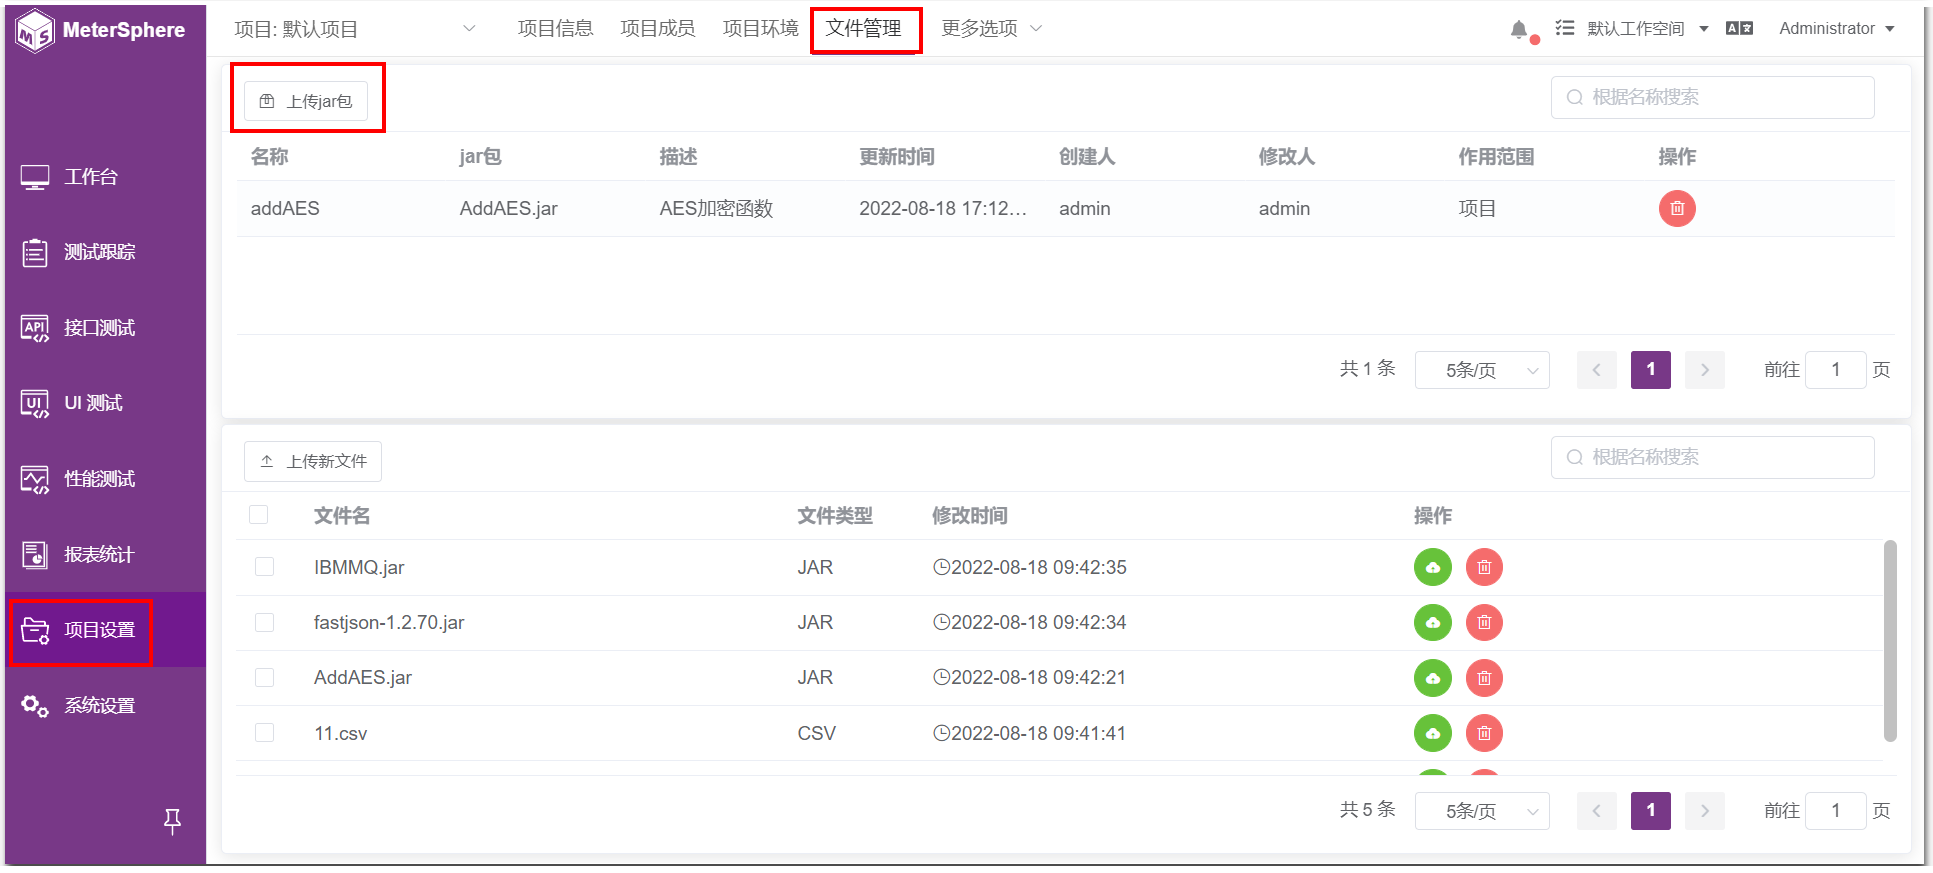
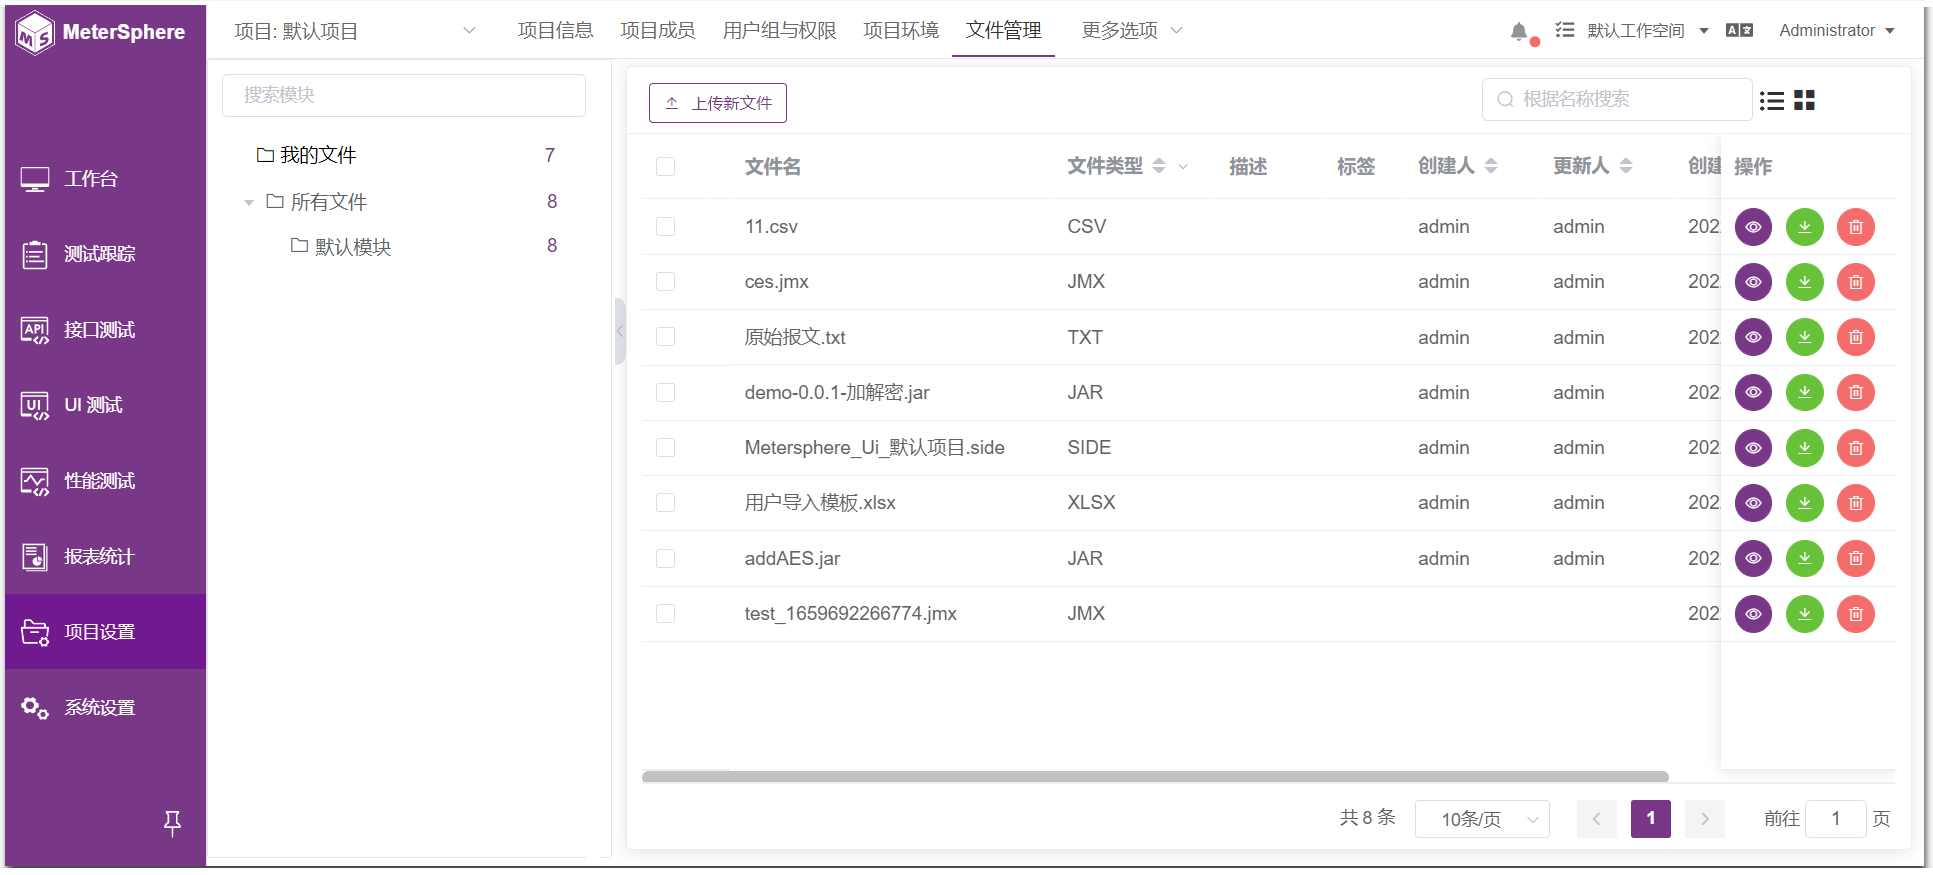
docs: 更新“用户手册-项目设置-文件管理”内容,完善"用户手册-功能用例-自定义字段可导入导出"内容。

diff --git a/docs/user_manual/project_management/file_management.md b/docs/user_manual/project_management/file_management.md
@@ -1,17 +1,31 @@
-可上传测试所需的 jar 包、脚本、相关文件，在项目级别统一管理。
-
-## 1 Jar包管理功能
+可上传测试所需的 JAR 包、脚本、相关文件，在项目级别统一管理。
 ![!项目设置](../../img/project_management/上传jar包.png)
 
-同时可以删除、更新当前项目级别的 jar 包。
+## 1 模块管理
+可对目录进行重命名、新增、删除等操作
+![!项目设置](../../img/project_management/模块.png)
 
-!!! info "说明" 
-    删除或者更新 jar 包需要重启 ms-server 服务。
+## 2.上传文件
+可上传 JAR、CSV、TXT、JMX、XLSX 等多种格式的文件，上传的 JAR 可在接口前后置脚本中进行使用
+![!项目设置](../../img/project_management/文件上传.png)
 
-![!项目设置](../../img/project_management/删除jar包.png)
+上传的文件可在性能测试页面进行选择
+![!项目设置](../../img/project_management/性能测试加载的文件.png)
 
-Jar包的管理功能，详细功能操作及说明参考 [系统->工作空间->项目管理->Jar包管理](../../system_management/workspace/#13)。
+## 3 查看文件
+点击查看按钮，可查看该文件的详细信息，也可在该页面增加文件的描述
+![!项目设置](../../img/project_management/文件查看.png)
 
-## 2 性能测试文件管理
-点击【上传新文件】，可在这里维护当前项目级别性能测试相关文件，比如性能测试脚本、性能测试依赖 jar 包、性能测试数据文件等。
-![!项目设置](../../img/project_management/性能上传文件.png)
+可点击上一个/下一个按钮，切换当前查看的文件
+![!项目设置](../../img/project_management/切换文件.png)
+
+可对该文件出现上传，下载，删除等操作
+![!项目设置](../../img/project_management/文件查看.png)
+
+## 4 文件下载
+可点击列表后面下载按钮进行文件下载，也可在文件查看页面进行文件下载
+![!项目设置](../../img/project_management/下载文件.png)
+
+## 5 文件删除
+可点击列表后面删除按钮进行文件删除，也可在文件查看页面进行文件删除
+![!项目设置](../../img/project_management/文件删除.png)

diff --git a/docs/user_manual/test_track/test_case.md b/docs/user_manual/test_track/test_case.md
@@ -151,13 +151,19 @@
 点击点击模块树上方【更多操作】下拉菜单选择【导入】。在弹出页面中切换表格文件或思维导图格式导入用例。
 ![!导入测试用例](../../img/track/导入测试用例.png)
 
+可先下载模板，下载的模板中会出现自定义的字段，填写内容后，进行上传。自定义字段也正常展示到页面中。
+![!导入测试用例](../../img/track/导入测试用例_1.png)
+
 !!! info "操作说明"
     1.【导入新建】，导入的用例自动保存为新用例。
     2.【导入更新】，导入的用例自动覆盖已有用例。
 
 ### 4.7 导出用例
-批量选中希望导出的测试用例，点击模块树上方【更多操作】下拉菜单选择【导出】，快捷导出Excel 格式的用例文件。
+批量选中希望导出的测试用例，点击模块树上方【更多操作】下拉菜单选择【导出】，快捷导出 Excel 格式的用例文件。
 ![!导出测试用例](../../img/track/导出测试用例.png)
+
+导出格式可选择表格文件.xls和思维导图.xmind，导出的字段可选择基础字段、自定义字段、其他字段等。
+![!导出测试用例](../../img/track/导出测试用例_1.png)
 
 ### 4.8 回收站
 所有被删除的测试用例都会放在回收站里保存。

diff --git a/docs/user_manual/ui_test/ui_automation.md b/docs/user_manual/ui_test/ui_automation.md
@@ -53,14 +53,23 @@
 
 1.3.5 鼠标操作 <br>
 【鼠标操作】支持【鼠标点击】、【鼠标移动】和【鼠标拖拽】的操作，通过定位找到元素后，还支持设置鼠标在元素上的点击位置。
+![创建场景](../../img/ui_test/创建场景13.png)
+
+【鼠标操作】选择【鼠标点击】，选择点击方式，填写元素位置以及点击位置即可
+![创建场景](../../img/ui_test/鼠标点击.png)
+
+【鼠标操作】选择【鼠标移动】，选择移动方式，填写鼠标位置即可
+![创建场景](../../img/ui_test/鼠标移动.png)
+
+【鼠标操作】选择【鼠标拖拽】，选择拖拽方式，填写操作元素以及坐标点即可
+![创建场景](../../img/ui_test/鼠标拖拽.png)
+
 !!! info "说明"
     1.【鼠标点击】：模拟鼠标点击的操作，支持单击/双击/按下/弹起<br>
     2.【鼠标移动】：将鼠标悬停在网页元素的上方<br>
     3.【鼠标拖拽】：模拟鼠标将元素从某个位置拖到另一个位置
 
-![创建场景](../../img/ui_test/创建场景13.png)
-
-1.3.6 鼠标操作    
+1.3.6 输入操作    
 【输入操作】支持输入框和可编辑段落输入，同时支持追加输入和覆盖输入模式。
 ![创建场景](../../img/ui_test/创建场景14.png)
 
